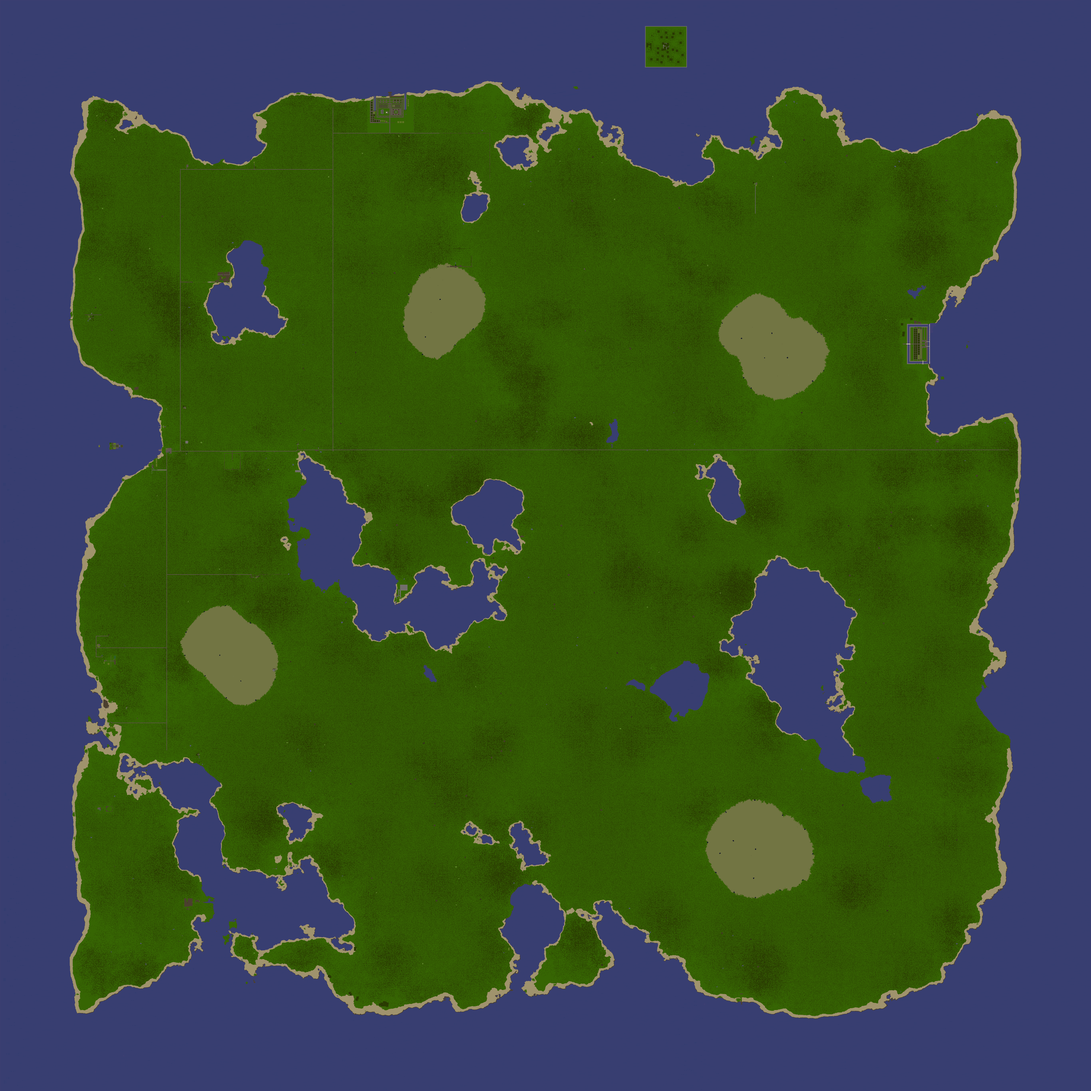
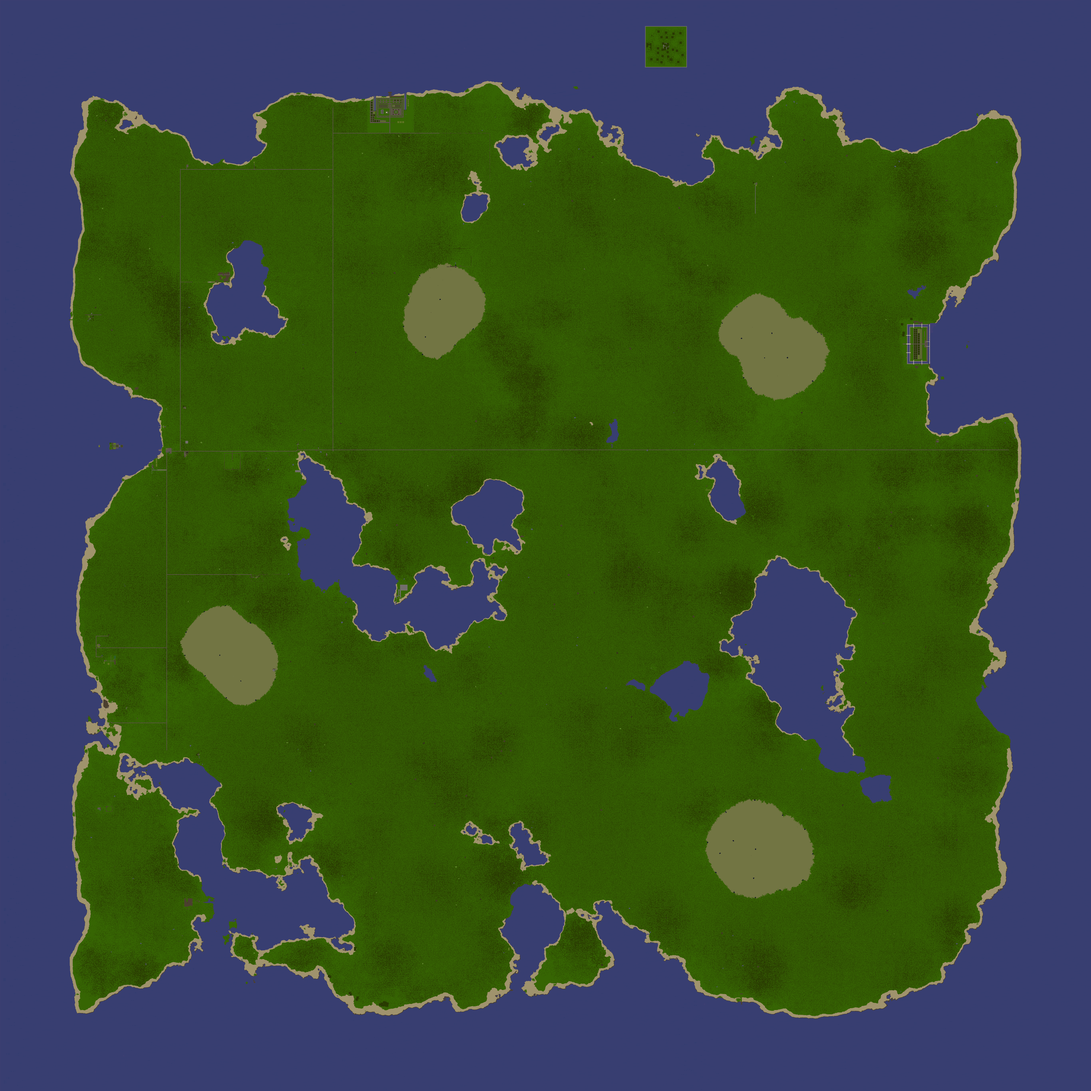
Add files via upload

diff --git a/config.js b/config.js
@@ -92,7 +92,6 @@ deeds.push(new Deed('Kleinhawe','Gromble','Gromble',1678427873783,false,4,617,15
 deeds.push(new Deed('Kito','Master','Master',1678449164984,false,4,1195,1673,180,false,1190,1668,1200,1678,0));
 deeds.push(new Deed('Serenity Valley','Steve','Steve',1678490811657,false,4,832,1311,52,false,827,1306,837,1316,0));
 deeds.push(new Deed('Hill Of Vynora','Temilia','Stewen',1678552293875,false,4,456,1674,45,false,411,1662,462,1686,0));
-deeds.push(new Deed('Merryvale','Moontsu','Moontsu',1678624582781,false,4,693,1529,310,false,686,1523,700,1536,0));
 deeds.push(new Deed('The Dragon\'s Keep','Eveswaffora','Eveswaffora',1678795571378,false,4,872,1732,381,false,842,1702,902,1762,0));
 deeds.push(new Deed('Danger Island','Dragon','Dragon',1678831259293,false,4,2499,174,298,false,2419,94,2579,254,0));
 deeds.push(new Deed('Artems Post','Artem','Artem',1679030759739,false,4,746,2836,112,false,739,2816,753,2843,0));
@@ -110,6 +109,7 @@ deeds.push(new Deed('The Bakery','Roundbread','Roundbread',1680528757903,false,4
 deeds.push(new Deed('Candy City','Skittle','Skittle',1680567418554,false,4,1960,2013,53,false,1935,1988,1985,2038,0));
 deeds.push(new Deed('Morning Fog','Aassepoester','Aassepoester',1680752670848,true,4,524,1801,71,false,502,1758,547,1845,0));
 deeds.push(new Deed('Festers Place','Fester','Fester',1681193539891,false,4,965,2165,161,false,930,2145,1000,2185,0));
+deeds.push(new Deed('Elemental','Shadroth','Shadroth',1681994249293,false,4,695,1704,335,false,690,1695,710,1715,0));
 kingdoms[0] = new Kingdom(0,'no known kingdom','','[color-list]');
 kingdoms[1] = new Kingdom(1,'Jenn-Kellon','','');
 kingdoms[2] = new Kingdom(2,'Mol Rehan','','');
@@ -134,4 +134,4 @@ bridgeNodes = [
 ];
 tunnelNodes = [
 ];
-var timestamp = 1681957354453;
+var timestamp = 1682361975542;
